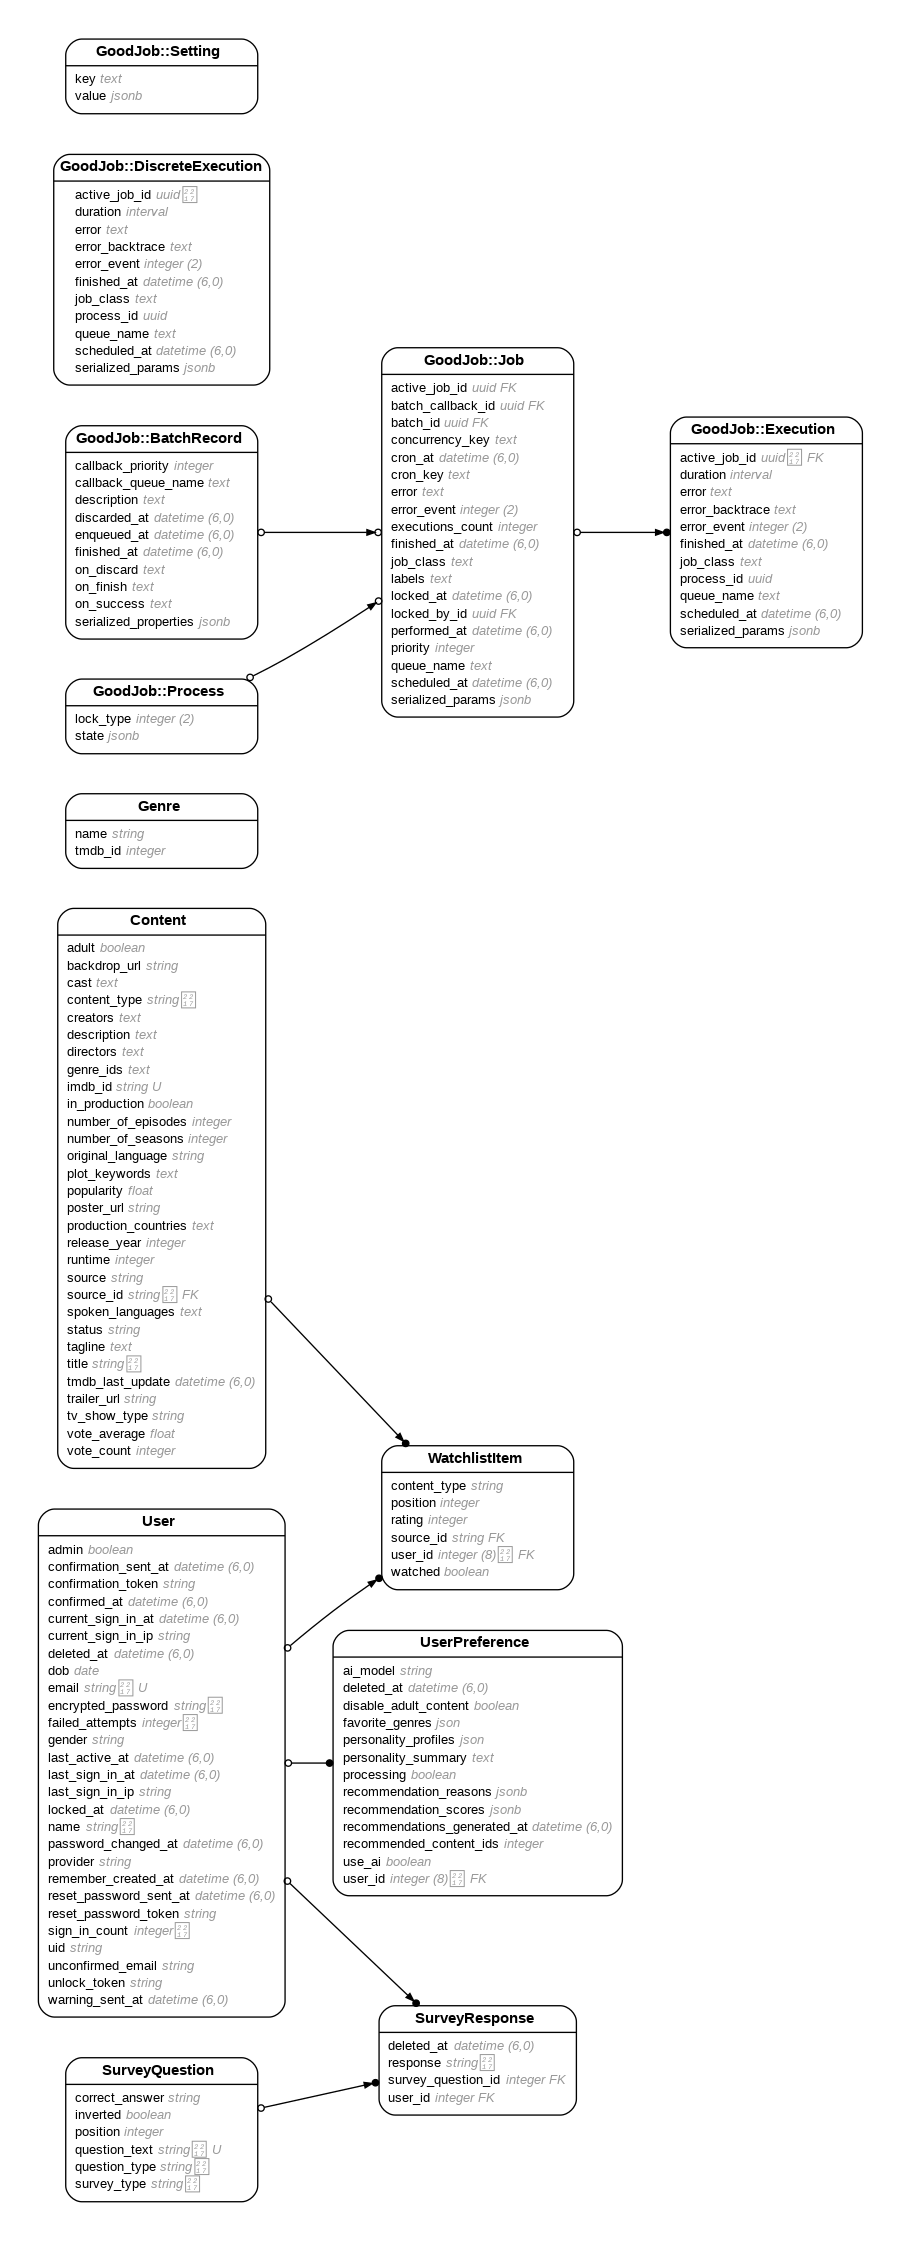
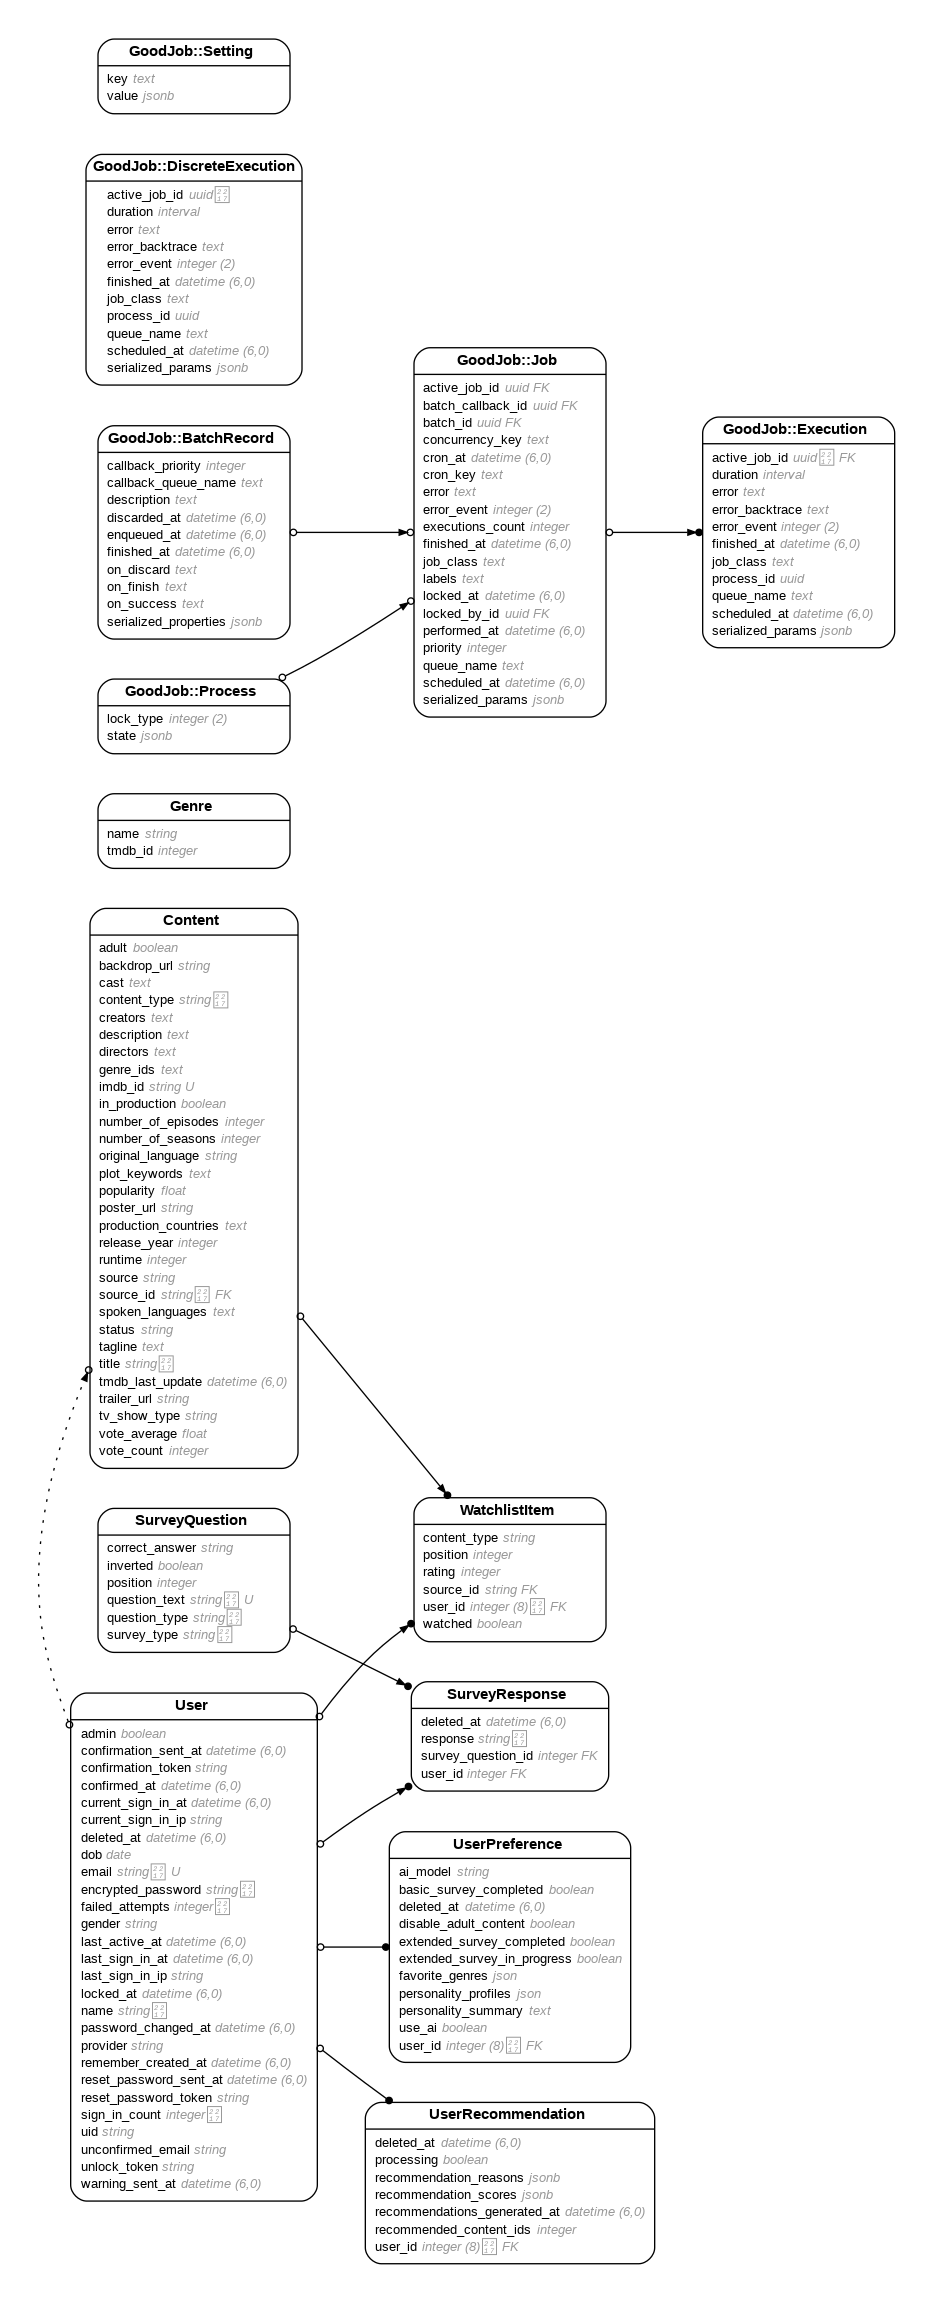
separate recommendations data from user preferences

diff --git a/app/models/user_recommendation.rb b/app/models/user_recommendation.rb
@@ -1,0 +1,122 @@
+# frozen_string_literal: true
+
+# == Schema Information
+#
+# Table name: user_recommendations
+#
+#  id                           :bigint           not null, primary key
+#  deleted_at                   :datetime
+#  processing                   :boolean          default(FALSE)
+#  recommendation_reasons       :jsonb
+#  recommendation_scores        :jsonb
+#  recommendations_generated_at :datetime
+#  recommended_content_ids      :integer          default([]), is an Array
+#  created_at                   :datetime         not null
+#  updated_at                   :datetime         not null
+#  user_id                      :bigint           not null
+#
+# Indexes
+#
+#  index_user_recommendations_on_deleted_at  (deleted_at)
+#  index_user_recommendations_on_user_id     (user_id)
+#
+# Foreign Keys
+#
+#  fk_rails_...  (user_id => users.id)
+#
+class UserRecommendation < ApplicationRecord
+  acts_as_paranoid
+  belongs_to :user, required: true
+
+  def recommendations_outdated?
+    Rails.cache.fetch("user_#{user_id}_recommendations_outdated", expires_in: 5.minutes) do
+      recommended_content_ids.empty? ||
+        recommendations_generated_at.nil? ||
+        updated_at > recommendations_generated_at ||
+        Content.where("updated_at > ?", recommendations_generated_at).exists?
+    end
+  end
+
+  def ensure_recommendations
+    if recommendations_outdated? || recommended_content_ids.blank?
+      Rails.logger.info("Ensuring recommendations for user #{user_id}")
+      # Avoid queueing multiple jobs by checking if already processing
+      unless processing?
+        update(processing: true)
+        GenerateRecommendationsJob.perform_later(user_id)
+      end
+      return false
+    end
+    true
+  end
+
+  def generate_recommendations
+    user_preference = user.user_preference
+    
+    if user_preference.personality_profiles.blank?
+      Rails.logger.error "Cannot generate recommendations: personality_profiles is blank"
+      update(processing: false)
+      return []
+    end
+    
+    if user_preference.favorite_genres.blank?
+      Rails.logger.error "Cannot generate recommendations: favorite_genres is blank"
+      update(processing: false)
+      return []
+    end
+
+    begin
+      if user_preference.use_ai
+        recommended_ids, reasons, match_scores = AiRecommendationService.generate_recommendations(user_preference)
+        update(
+          recommended_content_ids: recommended_ids,
+          recommendation_reasons: reasons,
+          recommendation_scores: match_scores,
+          recommendations_generated_at: Time.current,
+          processing: false
+        )
+      else
+        recommended_ids = generate_internal_recommendations(user_preference)
+        update(
+          recommended_content_ids: recommended_ids,
+          recommendation_reasons: {},
+          recommendation_scores: {},
+          recommendations_generated_at: Time.current,
+          processing: false
+        )
+      end
+      
+      Rails.cache.delete_matched("user_#{user_id}_recommendations_*")
+      Rails.cache.delete("user_#{user_id}_recommendations_page_1")
+      
+      recommended_ids
+    rescue StandardError => e
+      update(processing: false)
+      Rails.logger.error "Failed to generate recommendations: #{e.message}"
+      Rails.logger.error e.backtrace.join("\n")
+      []
+    end
+  end
+
+  def calculate_match_score(genre_ids, user_preference)
+    user_preference.calculate_match_score(genre_ids)
+  end
+
+  private
+
+  def generate_internal_recommendations(user_preference)
+    base_content = Content.all
+    base_content = base_content.where(adult: [false, nil]) if user_preference.disable_adult_content
+
+    content_with_scores = base_content.map do |content|
+      {
+        id: content.id,
+        match_score: user_preference.calculate_match_score(content.genre_ids_array)
+      }
+    end
+
+    content_with_scores.sort_by { |r| -r[:match_score] }
+                       .first(100)
+                       .map { |r| r[:id] }
+  end
+end

diff --git a/app/models/user_preference.rb b/app/models/user_preference.rb
@@ -4,22 +4,20 @@
 #
 # Table name: user_preferences
 #
-#  id                           :bigint           not null, primary key
-#  ai_model                     :string
-#  deleted_at                   :datetime
-#  disable_adult_content        :boolean
-#  favorite_genres              :json
-#  personality_profiles         :json
-#  personality_summary          :text
-#  processing                   :boolean          default(FALSE)
-#  recommendation_reasons       :jsonb
-#  recommendation_scores        :jsonb
-#  recommendations_generated_at :datetime
-#  recommended_content_ids      :integer          default([]), is an Array
-#  use_ai                       :boolean          default(FALSE)
-#  created_at                   :datetime         not null
-#  updated_at                   :datetime         not null
-#  user_id                      :bigint           not null
+#  id                          :bigint           not null, primary key
+#  ai_model                    :string
+#  basic_survey_completed      :boolean          default(FALSE)
+#  deleted_at                  :datetime
+#  disable_adult_content       :boolean
+#  extended_survey_completed   :boolean          default(FALSE)
+#  extended_survey_in_progress :boolean          default(FALSE)
+#  favorite_genres             :json
+#  personality_profiles        :json
+#  personality_summary         :text
+#  use_ai                      :boolean          default(FALSE)
+#  created_at                  :datetime         not null
+#  updated_at                  :datetime         not null
+#  user_id                     :bigint           not null
 #
 # Indexes
 #
@@ -79,8 +77,8 @@ class UserPreference < ApplicationRecord
         )
       end
       
-      Rails.cache.delete_matched("user_#{user_id}_recommendations_*")
-      Rails.cache.delete("user_#{user_id}_recommendations_page_1")
+    Rails.cache.delete_matched("user_#{user_id}_recommendations_*")
+    Rails.cache.delete("user_#{user_id}_recommendations_page_1")
       
       recommended_ids
     rescue StandardError => e
@@ -196,6 +194,19 @@ class UserPreference < ApplicationRecord
     read_attribute(:ai_model) || AiModelsConfig.default_model
   end
 
+  def ensure_recommendations
+    if recommendations_outdated? || recommended_content_ids.blank?
+      Rails.logger.info("Ensuring recommendations for user #{user_id}")
+      # Avoid queueing multiple jobs by checking if already processing
+      unless processing?
+        update(processing: true)
+        GenerateRecommendationsJob.perform_later(id)
+      end
+      return false
+    end
+    true
+  end
+
   private
 
   def calculate_big_five_score(genres)
@@ -248,7 +259,7 @@ class UserPreference < ApplicationRecord
       Rails.logger.warn("User has no favorite genres")
       return 0
     end
-    
+
     matching_genres = genres & user_favorite_genres
     score = matching_genres.size.to_f / user_favorite_genres.size
     

diff --git a/db/migrate/20250319195958_create_user_recommendations.rb b/db/migrate/20250319195958_create_user_recommendations.rb
@@ -1,0 +1,73 @@
+class CreateUserRecommendations < ActiveRecord::Migration[7.1]
+  def change
+    create_table :user_recommendations do |t|
+      t.references :user, null: false, foreign_key: true
+      t.integer :recommended_content_ids, array: true, default: []
+      t.datetime :recommendations_generated_at
+      t.jsonb :recommendation_reasons
+      t.jsonb :recommendation_scores
+      t.boolean :processing, default: false
+      t.datetime :deleted_at
+      
+      t.timestamps
+    end
+    
+    add_index :user_recommendations, :deleted_at
+    
+    # Add survey completion tracking columns to user_preferences
+    add_column :user_preferences, :basic_survey_completed, :boolean, default: false
+    add_column :user_preferences, :extended_survey_completed, :boolean, default: false
+    add_column :user_preferences, :extended_survey_in_progress, :boolean, default: false
+
+    # Data migration
+    reversible do |dir|
+      dir.up do
+        # Create a user recommendation for each user preference
+        execute <<-SQL
+          INSERT INTO user_recommendations (
+            user_id, 
+            recommended_content_ids, 
+            recommendations_generated_at, 
+            recommendation_reasons, 
+            recommendation_scores, 
+            processing, 
+            created_at, 
+            updated_at
+          )
+          SELECT 
+            user_id, 
+            recommended_content_ids, 
+            recommendations_generated_at, 
+            recommendation_reasons, 
+            recommendation_scores, 
+            processing, 
+            created_at, 
+            updated_at
+          FROM user_preferences
+          WHERE user_preferences.deleted_at IS NULL;
+        SQL
+        
+        # Update the survey completion status in user_preferences based on survey responses
+        # This is not efficient but works for a one-time migration
+        User.find_each do |user|
+          # Using the existing model methods to calculate survey completion
+          user_preference = user.user_preference
+          next unless user_preference
+          
+          user_preference.update_columns(
+            basic_survey_completed: user.basic_survey_completed?,
+            extended_survey_completed: user.extended_survey_completed?,
+            extended_survey_in_progress: user.extended_survey_in_progress?
+          )
+        end
+      end
+    end
+    
+    # Remove columns from user_preferences that are now in user_recommendations
+    remove_column :user_preferences, :recommended_content_ids, :integer, array: true, default: []
+    remove_column :user_preferences, :recommendations_generated_at, :datetime
+    remove_column :user_preferences, :recommendation_reasons, :jsonb
+    remove_column :user_preferences, :recommendation_scores, :jsonb
+    remove_column :user_preferences, :processing, :boolean, default: false
+  end
+end

diff --git a/db/schema.rb b/db/schema.rb
@@ -10,7 +10,7 @@
 #
 # It's strongly recommended that you check this file into your version control system.
 
-ActiveRecord::Schema[7.1].define(version: 2025_03_17_180154) do
+ActiveRecord::Schema[7.1].define(version: 2025_03_19_195958) do
   # These are extensions that must be enabled in order to support this database
   enable_extension "pg_trgm"
   enable_extension "pgcrypto"
@@ -195,16 +195,28 @@ ActiveRecord::Schema[7.1].define(version: 2025_03_17_180154) do
     t.datetime "updated_at", null: false
     t.datetime "deleted_at"
     t.boolean "disable_adult_content"
-    t.integer "recommended_content_ids", default: [], array: true
-    t.datetime "recommendations_generated_at"
     t.boolean "use_ai", default: false
-    t.jsonb "recommendation_reasons", default: {}
     t.string "ai_model"
-    t.jsonb "recommendation_scores", default: {}
-    t.boolean "processing", default: false
     t.text "personality_summary"
+    t.boolean "basic_survey_completed", default: false
+    t.boolean "extended_survey_completed", default: false
+    t.boolean "extended_survey_in_progress", default: false
     t.index ["deleted_at"], name: "index_user_preferences_on_deleted_at"
     t.index ["user_id"], name: "index_user_preferences_on_user_id"
+  end
+
+  create_table "user_recommendations", force: :cascade do |t|
+    t.bigint "user_id", null: false
+    t.integer "recommended_content_ids", default: [], array: true
+    t.datetime "recommendations_generated_at"
+    t.jsonb "recommendation_reasons"
+    t.jsonb "recommendation_scores"
+    t.boolean "processing", default: false
+    t.datetime "deleted_at"
+    t.datetime "created_at", null: false
+    t.datetime "updated_at", null: false
+    t.index ["deleted_at"], name: "index_user_recommendations_on_deleted_at"
+    t.index ["user_id"], name: "index_user_recommendations_on_user_id"
   end
 
   create_table "users", force: :cascade do |t|
@@ -261,5 +273,6 @@ ActiveRecord::Schema[7.1].define(version: 2025_03_17_180154) do
   end
 
   add_foreign_key "user_preferences", "users"
+  add_foreign_key "user_recommendations", "users"
   add_foreign_key "watchlist_items", "users"
 end

diff --git a/spec/models/user_preference_spec.rb b/spec/models/user_preference_spec.rb
@@ -2,22 +2,20 @@
 #
 # Table name: user_preferences
 #
-#  id                           :bigint           not null, primary key
-#  ai_model                     :string
-#  deleted_at                   :datetime
-#  disable_adult_content        :boolean
-#  favorite_genres              :json
-#  personality_profiles         :json
-#  personality_summary          :text
-#  processing                   :boolean          default(FALSE)
-#  recommendation_reasons       :jsonb
-#  recommendation_scores        :jsonb
-#  recommendations_generated_at :datetime
-#  recommended_content_ids      :integer          default([]), is an Array
-#  use_ai                       :boolean          default(FALSE)
-#  created_at                   :datetime         not null
-#  updated_at                   :datetime         not null
-#  user_id                      :bigint           not null
+#  id                          :bigint           not null, primary key
+#  ai_model                    :string
+#  basic_survey_completed      :boolean          default(FALSE)
+#  deleted_at                  :datetime
+#  disable_adult_content       :boolean
+#  extended_survey_completed   :boolean          default(FALSE)
+#  extended_survey_in_progress :boolean          default(FALSE)
+#  favorite_genres             :json
+#  personality_profiles        :json
+#  personality_summary         :text
+#  use_ai                      :boolean          default(FALSE)
+#  created_at                  :datetime         not null
+#  updated_at                  :datetime         not null
+#  user_id                     :bigint           not null
 #
 # Indexes
 #

diff --git a/app/models/user.rb b/app/models/user.rb
@@ -60,6 +60,7 @@ class User < ApplicationRecord
   has_one :user_preference, dependent: :destroy
   has_many :survey_responses, dependent: :destroy
   has_many :watchlist_items, dependent: :destroy
+  has_one :user_recommendation, dependent: :destroy
   has_many :watchlist_contents, through: :watchlist_items, source: :content
 
   validates :name, presence: true
@@ -90,6 +91,10 @@ class User < ApplicationRecord
   
   def ensure_user_preference
     user_preference || create_user_preference
+  end
+
+  def ensure_user_recommendation
+    user_recommendation || create_user_recommendation!
   end
 
   def validate_age

diff --git a/app/controllers/recommendations_controller.rb b/app/controllers/recommendations_controller.rb
@@ -5,6 +5,7 @@ require_relative '../../lib/tasks/tmdb_tasks'
 class RecommendationsController < ApplicationController
   before_action :authenticate_user!
   before_action :set_user_preference, only: [:index, :show, :check_status, :refresh]
+  before_action :set_user_recommendation, only: [:index, :show, :check_status, :refresh]
 
   def index
     authorize :recommendation, :index?
